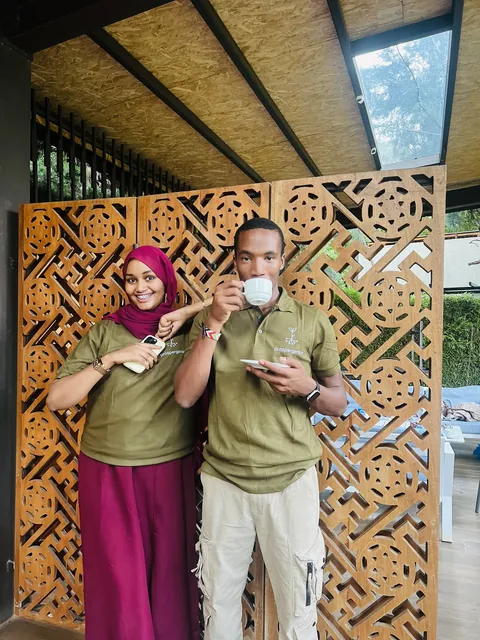
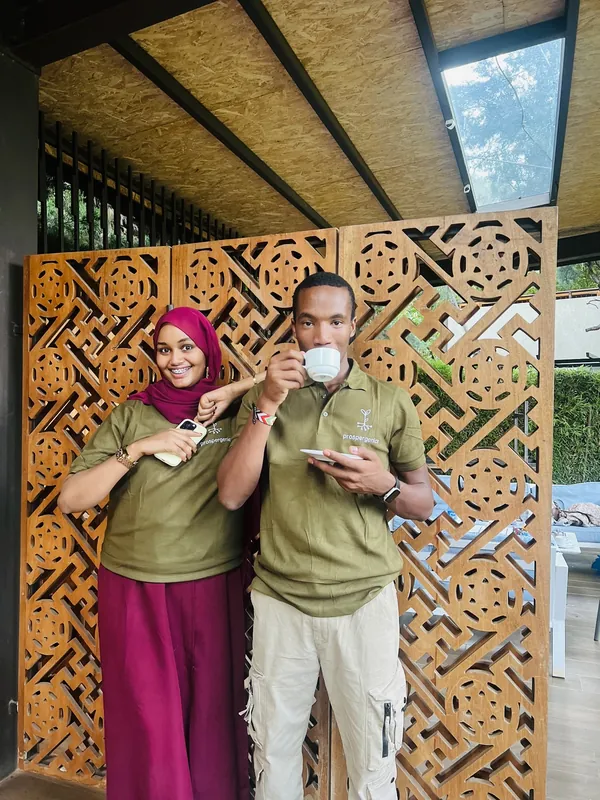
Homepage LCP: anonymous page cache and 600x800 contact-bg.webp (#7223)

diff --git a/design/new-hero-2026-10/index.html b/design/new-hero-2026-10/index.html
@@ -1560,7 +1560,7 @@
     <button class="launcher-orb" type="button" aria-haspopup="dialog" aria-label="Open ProsperGenics chat">
       <span class="l-ring"></span><span class="l-ring l-ring2"></span>
       <span class="l-blob"></span>
-      <span class="l-photo"><img loading="lazy" decoding="async" width="480" height="640" src="assets/contact-bg.webp" alt="Lessy &amp; Diko — chat with ProsperGenics" /></span>
+      <span class="l-photo"><img loading="lazy" decoding="async" width="600" height="800" src="assets/contact-bg.webp" alt="Lessy &amp; Diko — chat with ProsperGenics" /></span>
       <span class="l-pulse"></span>
     </button>
     <a class="wa-btn" href="https://wa.me/254741619743" target="_blank" rel="noopener" aria-label="Chat with ProsperGenics on WhatsApp" title="Chat with ProsperGenics on WhatsApp">

diff --git a/wp-theme/prospergenics-2026/inc/page-cache.php b/wp-theme/prospergenics-2026/inc/page-cache.php
@@ -1,0 +1,68 @@
+<?php
+/**
+ * #7223 Page cache for the anonymous homepage.
+ *
+ * Without it every anonymous request runs PHP/WordPress in full before the first
+ * byte, which pushes mobile LCP over 2.5 s. The front-page template has no
+ * server-rendered nonces or per-user fragments, so the whole output is safe to
+ * cache for visitors who are not logged in.
+ *
+ * Bypassed for: logged-in users, non-GET requests, requests with a query string,
+ * and visitors holding a comment/login cookie. Replies carry X-Cache: HIT or MISS.
+ */
+if ( ! defined( 'ABSPATH' ) ) {
+    exit;
+}
+
+const PG_HOME_CACHE_KEY = 'pg_home_cache';
+
+function pg_home_cache_eligible() {
+    if ( is_user_logged_in() || ! is_front_page() ) {
+        return false;
+    }
+    if ( ( $_SERVER['REQUEST_METHOD'] ?? 'GET' ) !== 'GET' || ! empty( $_GET ) ) {
+        return false;
+    }
+    foreach ( array_keys( $_COOKIE ) as $name ) {
+        if ( 0 === strpos( $name, 'comment_author_' ) || 0 === strpos( $name, 'wordpress_logged_in_' ) || 0 === strpos( $name, 'wp-postpass_' ) ) {
+            return false;
+        }
+    }
+    return true;
+}
+
+add_action( 'template_redirect', function () {
+    if ( ! pg_home_cache_eligible() ) {
+        return;
+    }
+    $html = get_transient( PG_HOME_CACHE_KEY );
+    if ( is_string( $html ) && '' !== $html ) {
+        header( 'X-Cache: HIT' );
+        header( 'Content-Type: text/html; charset=' . get_option( 'blog_charset' ) );
+        echo $html; // phpcs:ignore WordPress.Security.EscapeOutput
+        exit;
+    }
+    header( 'X-Cache: MISS' );
+    ob_start();
+    add_action( 'shutdown', function () {
+        // Shutdown runs before PHP flushes buffers; take the page and put it back out.
+        $html = '';
+        while ( ob_get_level() > 0 ) {
+            $html = ob_get_clean() . $html;
+        }
+        if ( '' !== $html && 200 === http_response_code() && false !== stripos( $html, '</html>' ) ) {
+            set_transient( PG_HOME_CACHE_KEY, $html, HOUR_IN_SECONDS );
+        }
+        echo $html; // phpcs:ignore WordPress.Security.EscapeOutput
+    }, 0 );
+}, 0 );
+
+function pg_home_cache_flush() {
+    delete_transient( PG_HOME_CACHE_KEY );
+}
+add_action( 'save_post', 'pg_home_cache_flush' );
+add_action( 'updated_option', function ( $option ) {
+    if ( 0 !== strpos( (string) $option, '_transient' ) && 0 !== strpos( (string) $option, '_site_transient' ) && 'cron' !== $option ) {
+        pg_home_cache_flush();
+    }
+} );

diff --git a/wp-theme/prospergenics-2026/front-page.php b/wp-theme/prospergenics-2026/front-page.php
@@ -1480,7 +1480,7 @@
     <button class="launcher-orb" type="button" aria-haspopup="dialog" aria-label="Open ProsperGenics chat">
       <span class="l-ring"></span><span class="l-ring l-ring2"></span>
       <span class="l-blob"></span>
-      <span class="l-photo"><img loading="lazy" decoding="async" width="480" height="640" src="<?php echo esc_url( get_template_directory_uri() ); ?>/assets/contact-bg.webp" alt="Lessy &amp; Diko — chat with ProsperGenics" /></span>
+      <span class="l-photo"><img loading="lazy" decoding="async" width="600" height="800" src="<?php echo esc_url( get_template_directory_uri() ); ?>/assets/contact-bg.webp" alt="Lessy &amp; Diko — chat with ProsperGenics" /></span>
       <span class="l-pulse"></span>
     </button>
     <a class="wa-btn" href="https://wa.me/254741619743" target="_blank" rel="noopener" aria-label="Chat with ProsperGenics on WhatsApp" title="Chat with ProsperGenics on WhatsApp">

diff --git a/wp-theme/prospergenics-2026/functions.php b/wp-theme/prospergenics-2026/functions.php
@@ -12,6 +12,7 @@ remove_action( 'wp_head', '_wp_render_title_tag', 1 );
 
 // First, so a fatal error in anything loaded after it is logged and emailed to staff (#6473).
 require get_template_directory() . '/inc/ops-alerts.php';
+require get_template_directory() . '/inc/page-cache.php';  // #7223 anonymous homepage page cache
 require get_template_directory() . '/inc/security.php';
 require get_template_directory() . '/inc/seo.php';
 // The one site header + footer (menu in inc/site-chrome/nav.json), also put on jengo-listings
